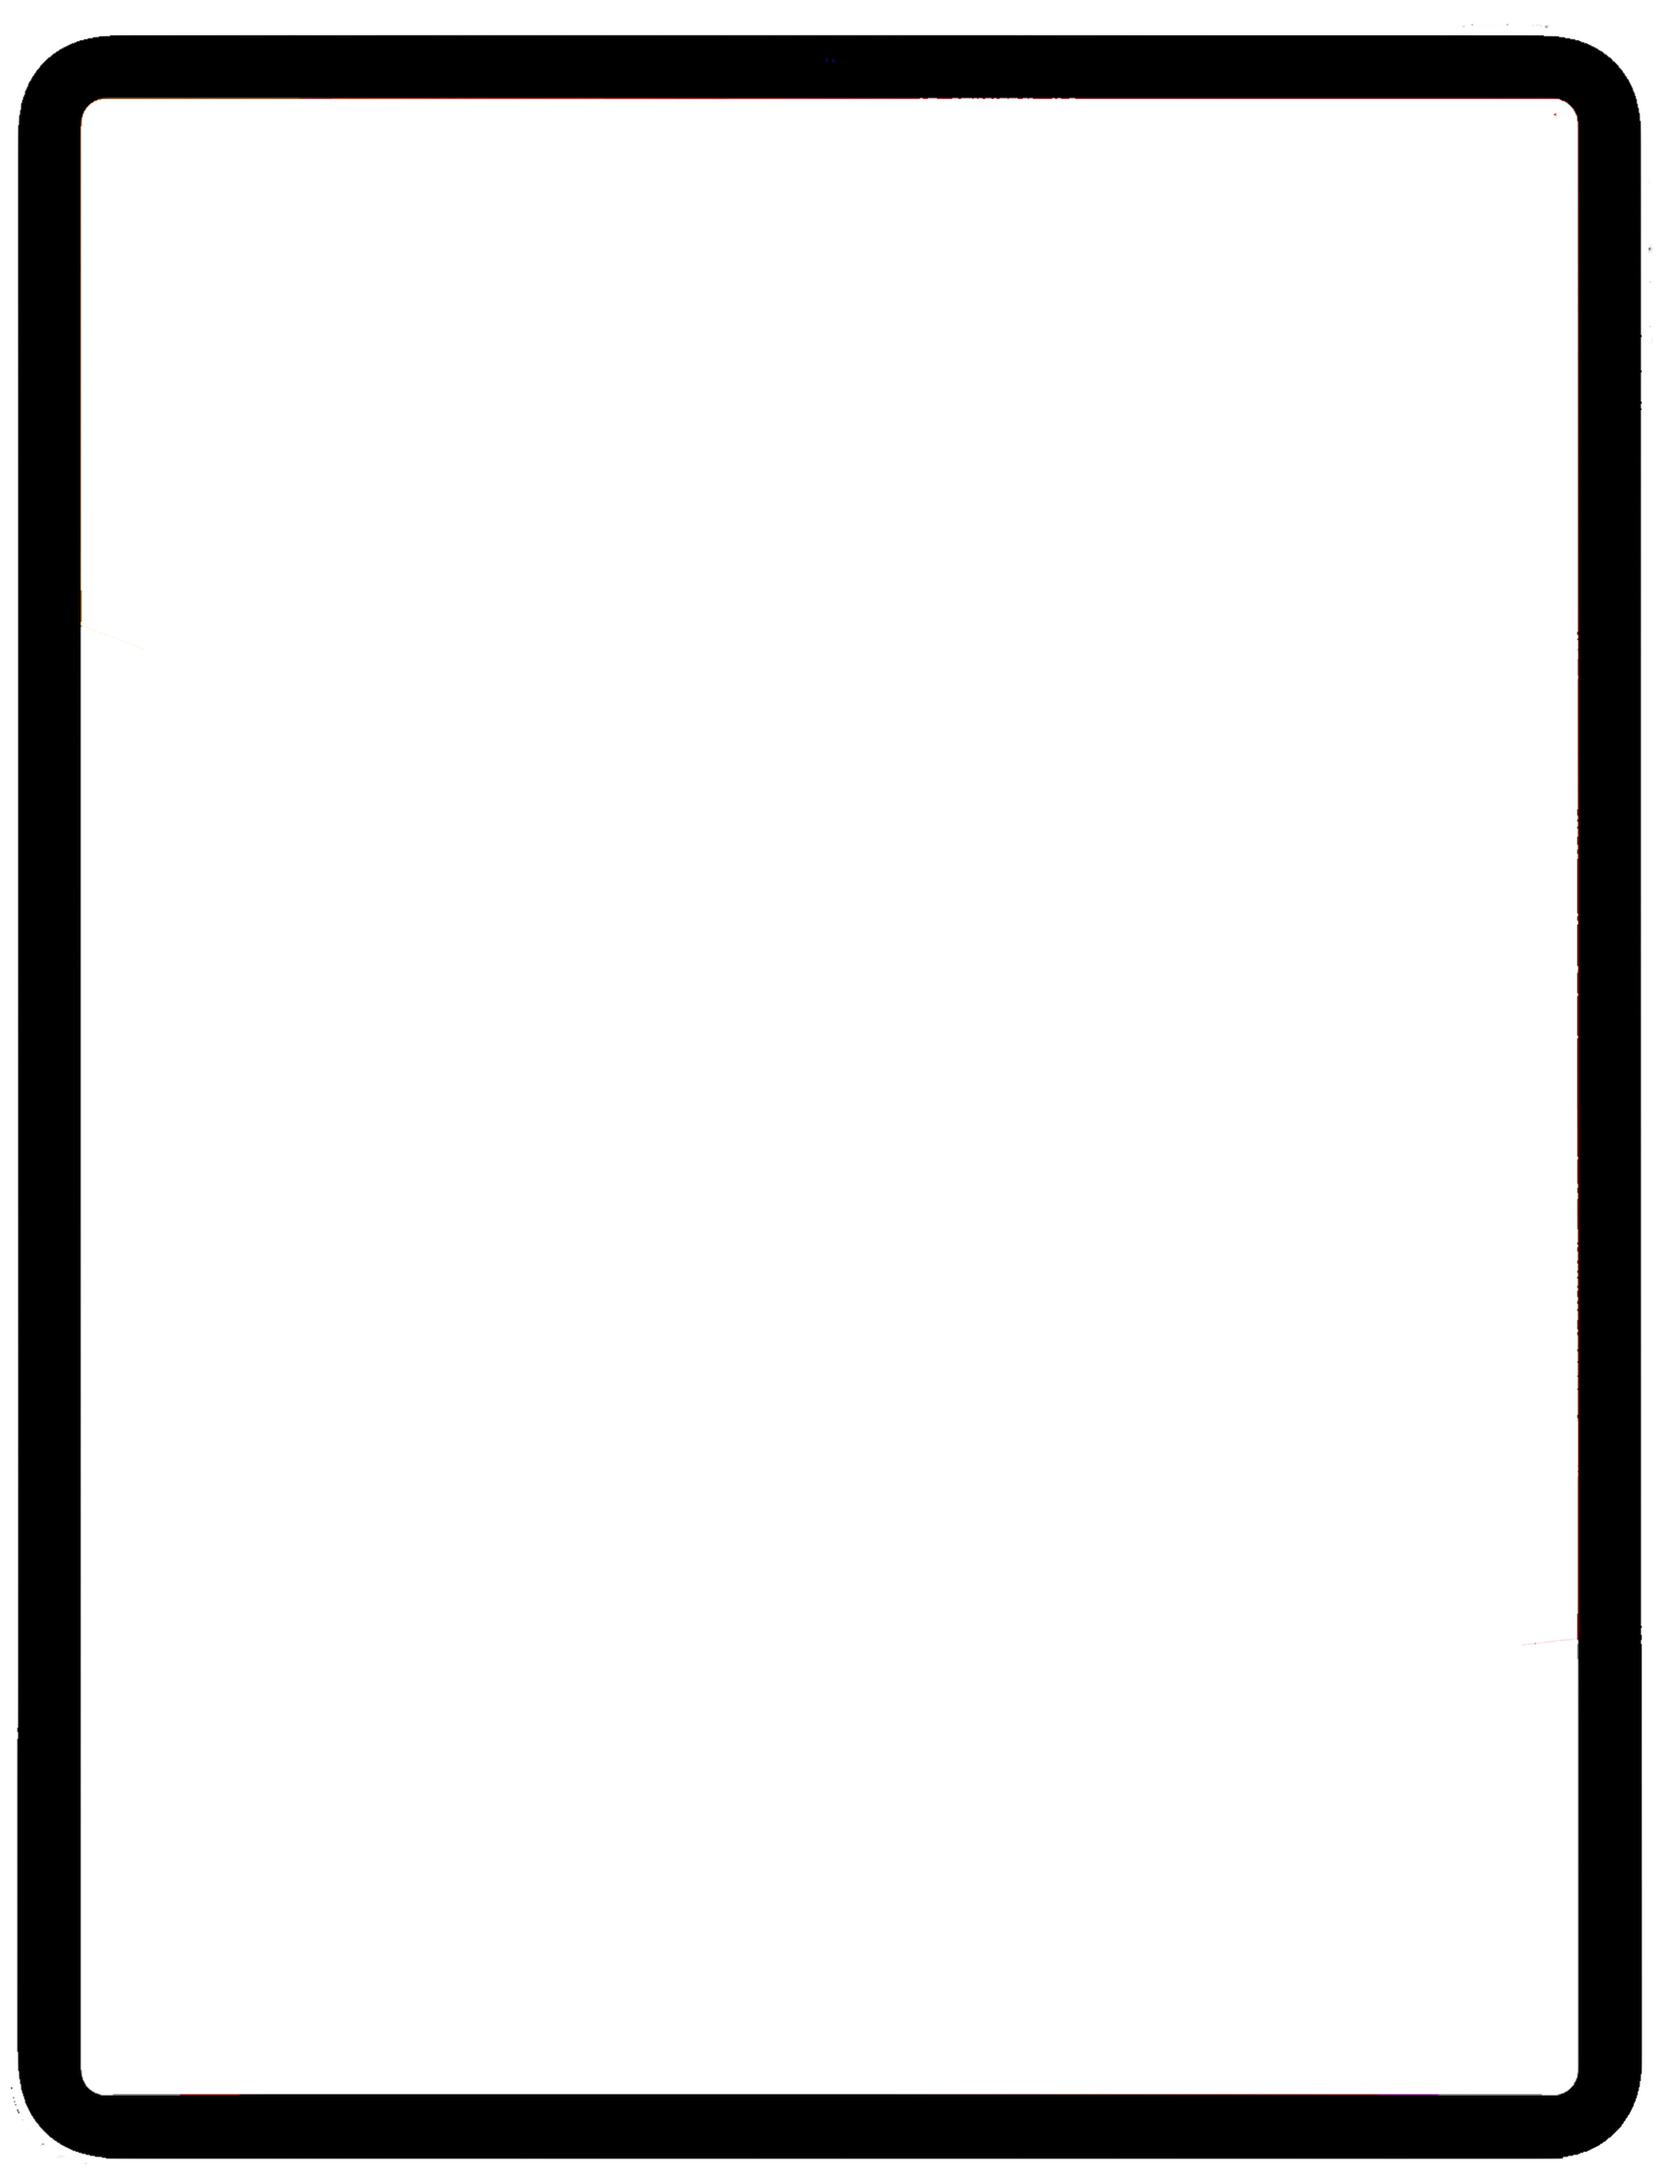
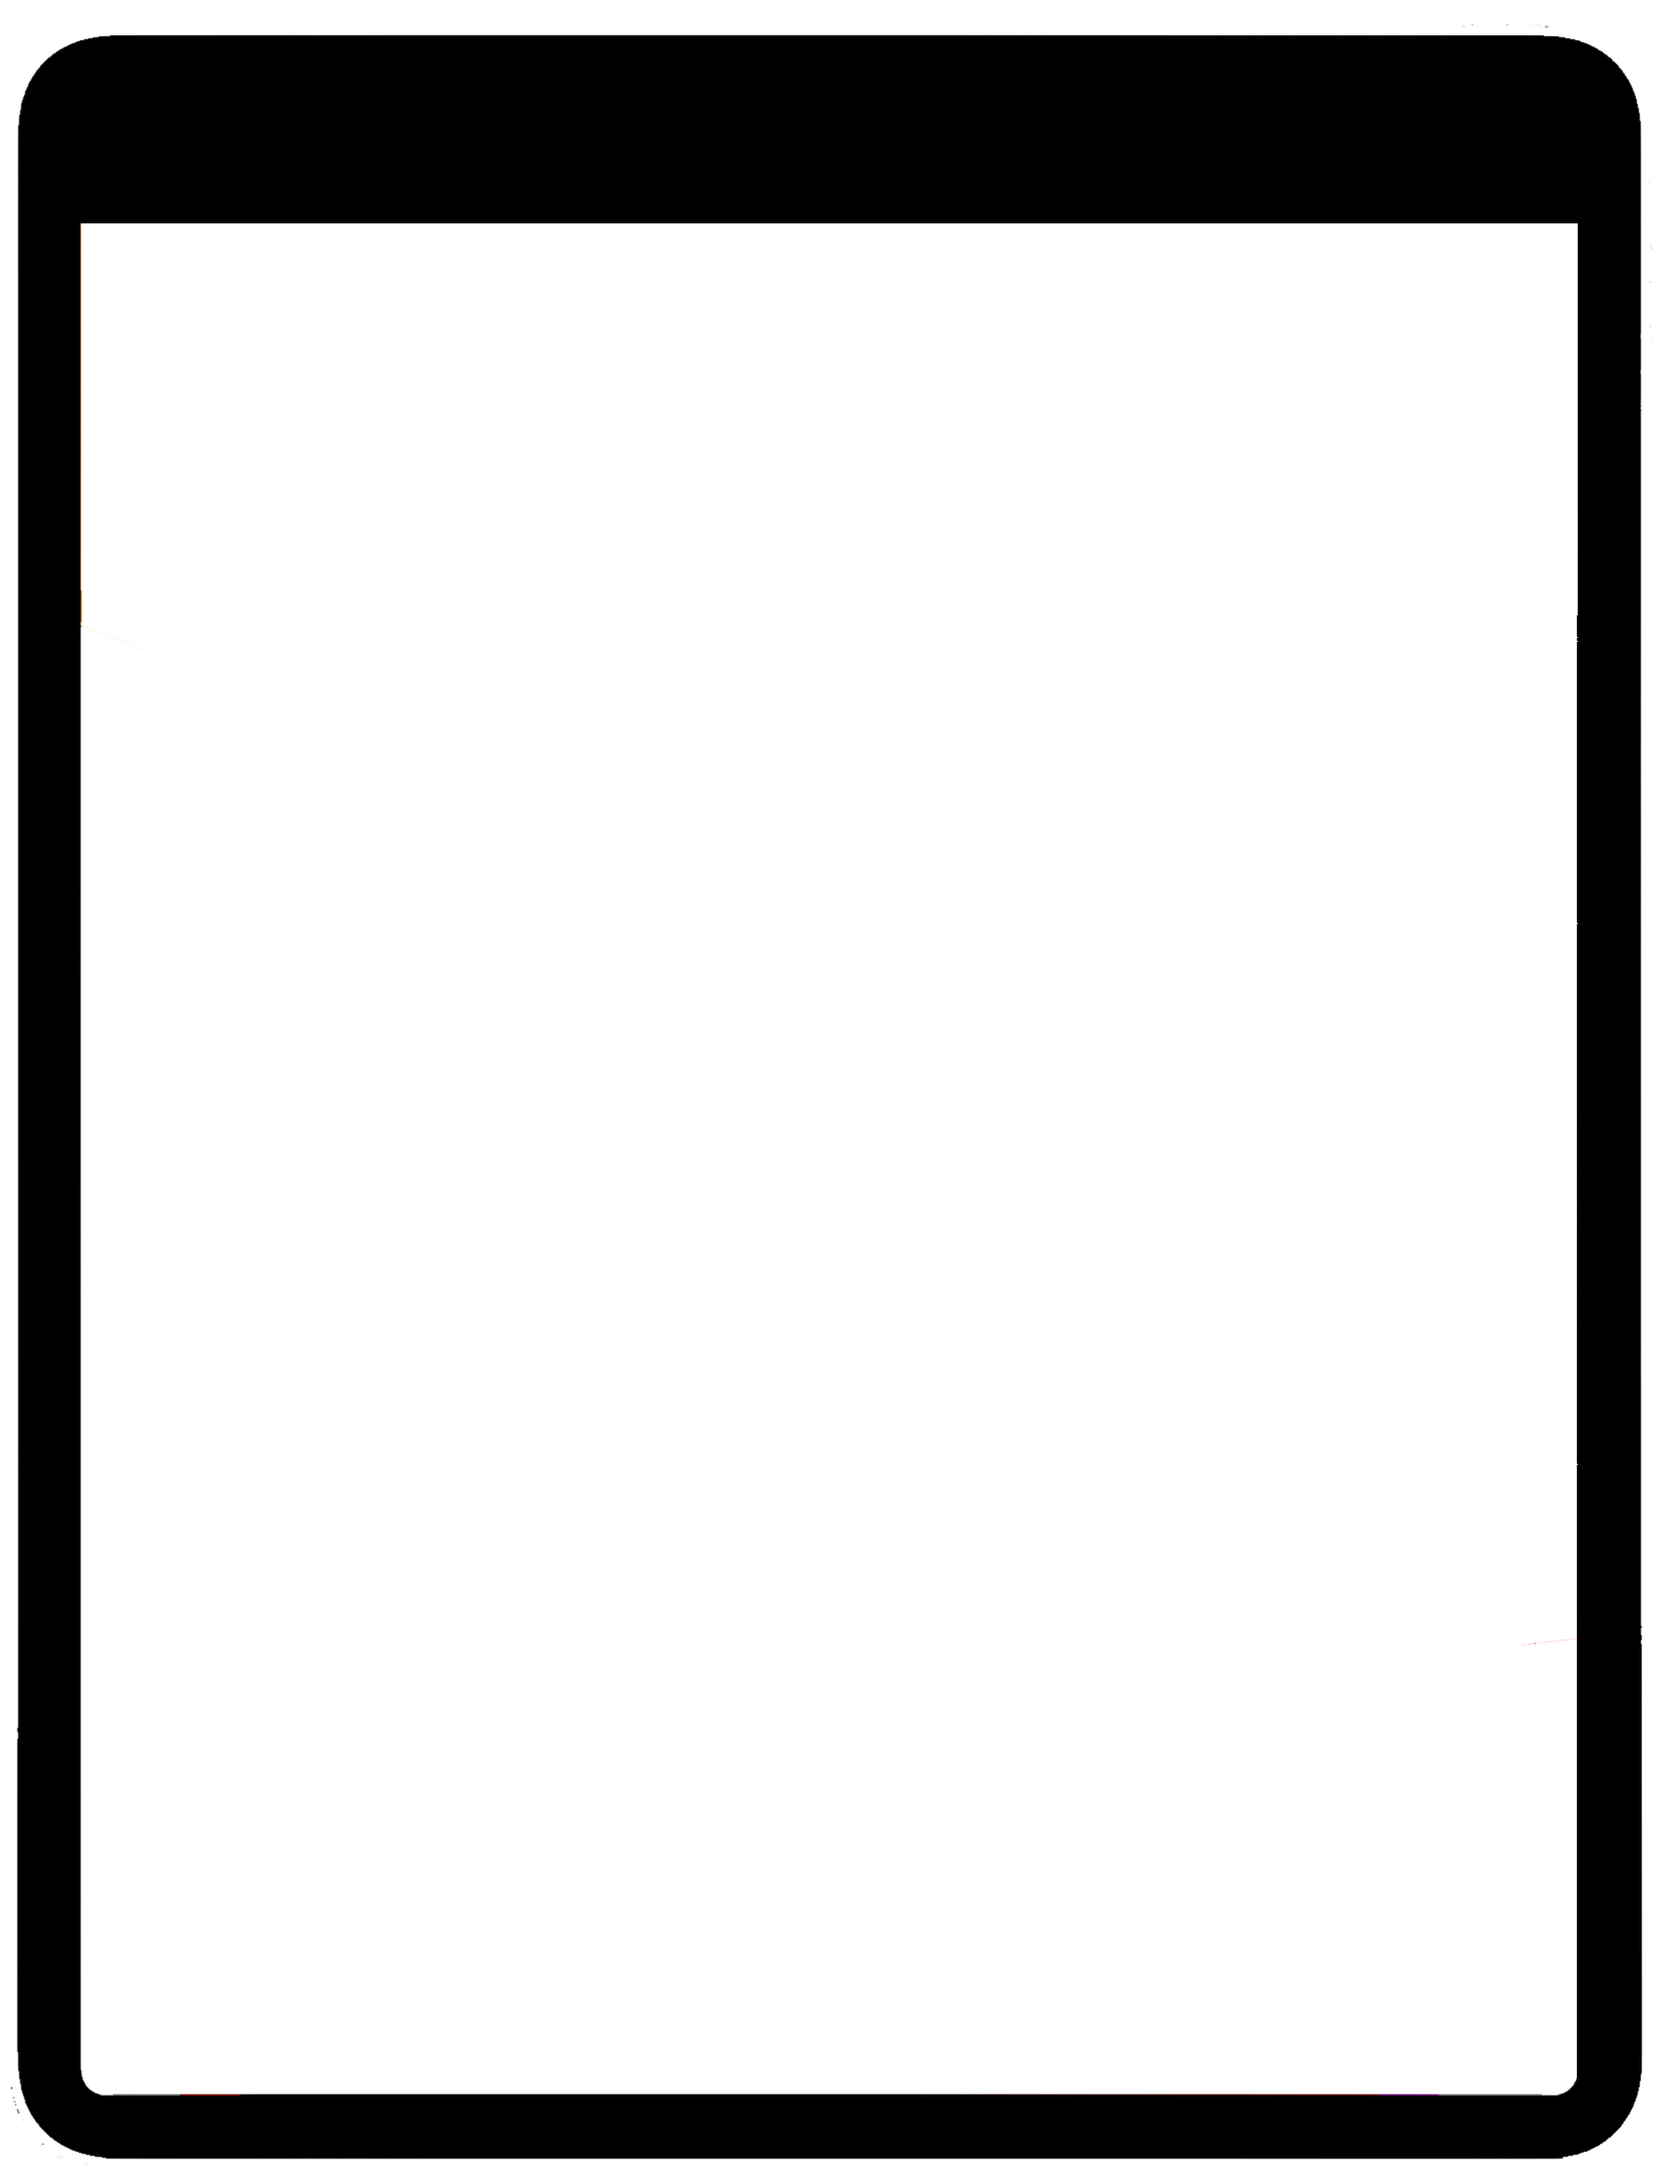
-

Changed region(s): [[0.0312, 0.031, 0.9665, 0.1239]]

diff --git a/src/shared/mac-bar/menu-overflow-open/menu-overflow-open.js b/src/shared/mac-bar/menu-overflow-open/menu-overflow-open.js
@@ -7,7 +7,7 @@ import PreviousTemplatePic from '../../buttons/mac-bar/previous-template-button/
 import NextTemplatePic from '../../buttons/mac-bar/next-template-button/next.svg';
 import NavPic from '../../buttons/mac-bar/nav-button/nav.svg';
 import HistoryPic from '../../buttons/mac-bar/history-button/history.svg';
-import MenuOverflowPic from './menu-open.svg';
+import MenuOverflowPic from './illuminati.svg';
 import BackButtonPic from '../../consumer-dock/consumer-with-dock-opened/images/back.svg';
 import ForwardButtonPic from '../../consumer-dock/consumer-with-dock-opened/images/forward.svg';
 import SnakePic from '../../business-dock/business-with-dock-opened/images/snake.svg';

diff --git a/src/shared/business-dock/business-with-dock-opened/business-with-dock-opened.js b/src/shared/business-dock/business-with-dock-opened/business-with-dock-opened.js
@@ -7,7 +7,7 @@ import PreviousTemplatePic from '../../buttons/mac-bar/previous-template-button/
 import NextTemplatePic from '../../buttons/mac-bar/next-template-button/next.svg';
 import NavPic from '../../buttons/mac-bar/nav-button/nav.svg';
 import HistoryPic from '../../buttons/mac-bar/history-button/history.svg';
-import MenuOverflowPic from '../../buttons/mac-bar/menu-overflow/menu.svg';
+import MenuOverflowPic from '../../buttons/mac-bar/menu-overflow/illuminati.svg';
 import BackButtonPic from './images/back.svg';
 import ForwardButtonPic from './images/forward.svg';
 import SnakePic from './images/snake.svg';

diff --git a/src/shared/consumer-dock/consumer-with-dock-opened/consumer-with-dock-opened.js b/src/shared/consumer-dock/consumer-with-dock-opened/consumer-with-dock-opened.js
@@ -7,7 +7,7 @@ import PreviousTemplatePic from '../../buttons/mac-bar/previous-template-button/
 import NextTemplatePic from '../../buttons/mac-bar/next-template-button/next.svg';
 import NavPic from '../../buttons/mac-bar/nav-button/nav.svg';
 import HistoryPic from '../../buttons/mac-bar/history-button/history.svg';
-import MenuOverflowPic from '../../buttons/mac-bar/menu-overflow/menu.svg';
+import MenuOverflowPic from '../../buttons/mac-bar/menu-overflow/illuminati.svg';
 import BackButtonPic from './images/back.svg';
 import ForwardButtonPic from './images/forward.svg';
 import SnakePic from './images/snake.svg';

diff --git a/src/consumer/consumer.css b/src/consumer/consumer.css
@@ -1,18 +1,25 @@
 .parent-container {
-    width: 100%;
+    /* width: 100%;
     height: 100%;
     display: flex;
     align-items: center;
-    justify-content: center;
+    justify-content: center; */
 }
 
 .child-container {
-    width: 1536px;
+    /* width: 1536px;
     background: black;
     color: white;
     display: flex;
+    position: relative;
     align-items: center;
-    justify-content: center;
+    justify-content: center; */
+}
+
+.consumer-image {
+    left: 1px;
+    top: 3px;
+    position: relative;
 }
 
 .treeButton2 {

diff --git a/src/shared/consumer-dock/consumer-with-dock-opened/consumer-with-dock-opened.css b/src/shared/consumer-dock/consumer-with-dock-opened/consumer-with-dock-opened.css
@@ -6,7 +6,7 @@
 
 .search-bar-png3 {
     width: 1507px;
-    padding-bottom: 162px;
+    padding-bottom: 158px;
 }
 
 .consumer-panel2 {
@@ -20,8 +20,7 @@
     display: flex;
     align-items: center;
     justify-content: center;
-    right: 16px!important;
-    bottom: 1967px;
+    bottom: 1964px;
     background-color: black;
     color: white;
     border: black;
@@ -30,7 +29,7 @@
 .omnibox-bar-svg {
     width: 1507px;
     position: relative;
-    bottom: 2051px;
+    bottom: 2048px;
 }
 
 .back-button-svg {

diff --git a/src/shared/consumer-dock/consumer-dock.css b/src/shared/consumer-dock/consumer-dock.css
@@ -15,8 +15,7 @@
         display: flex;
         align-items: center;
         justify-content: center;
-        right: 16px!important;
-        bottom: 1967px;
+        bottom: 1964px;
         background-color: black;
         color: white;
         border: black;
@@ -25,7 +24,7 @@
     .search-bar-png2 {
         width: 1507px;
         top:0px;
-        padding-bottom: 162px;
+        padding-bottom: 158px;
     }
 
     .oea-text {

diff --git a/src/consumer/consumer-with-dock-opened/consumer-with-dock-opened.js b/src/consumer/consumer-with-dock-opened/consumer-with-dock-opened.js
@@ -4,7 +4,6 @@ import consumer from '../../images/Consumer.png';
 import TreeButton from '../../shared/tree-button/tree';
 import MedicalInfoButton from '../../shared/medical-info-button/medical-info-button';
 import ConsumerWithDockOpened from '../../shared/consumer-dock/consumer-with-dock-opened/consumer-with-dock-opened';
-import OmniboxPanel from '../../shared/consumer-dock/omnibox-panel';
 
 function Consumer() {
     return (

diff --git a/src/consumer/consumer.js b/src/consumer/consumer.js
@@ -8,7 +8,7 @@ import ConsumerDock from '../shared/consumer-dock/consumer-dock';
 function Consumer() {
     return (
         <div className="">
-        <img className="" src={ consumer } alt="text" />
+        <img className="consumer-image" src={ consumer } alt="text" />
         <ConsumerDock></ConsumerDock>
         <TreeButton></TreeButton>
         <MedicalInfoButton></MedicalInfoButton>

diff --git a/src/shared/buttons/mac-bar/menu-overflow/menu-overflow.js b/src/shared/buttons/mac-bar/menu-overflow/menu-overflow.js
@@ -2,7 +2,7 @@ import React from 'react';
 import './menu-overflow.css';
 // import { render } from '@testing-library/react';
 import { Link } from "react-router-dom";
-import MenuOverflowPic from './menu.svg'; 
+import MenuOverflowPic from './illuminati.svg'; 
 
 function MenuOverflowButton() {
     return (

diff --git a/src/App.css b/src/App.css
@@ -11,7 +11,6 @@
 .ipad-container {
   margin-bottom: 330px;
   padding-top: 158px;
-  right: 200px;
   display: flex;
   align-items: center;
   justify-content: center;
